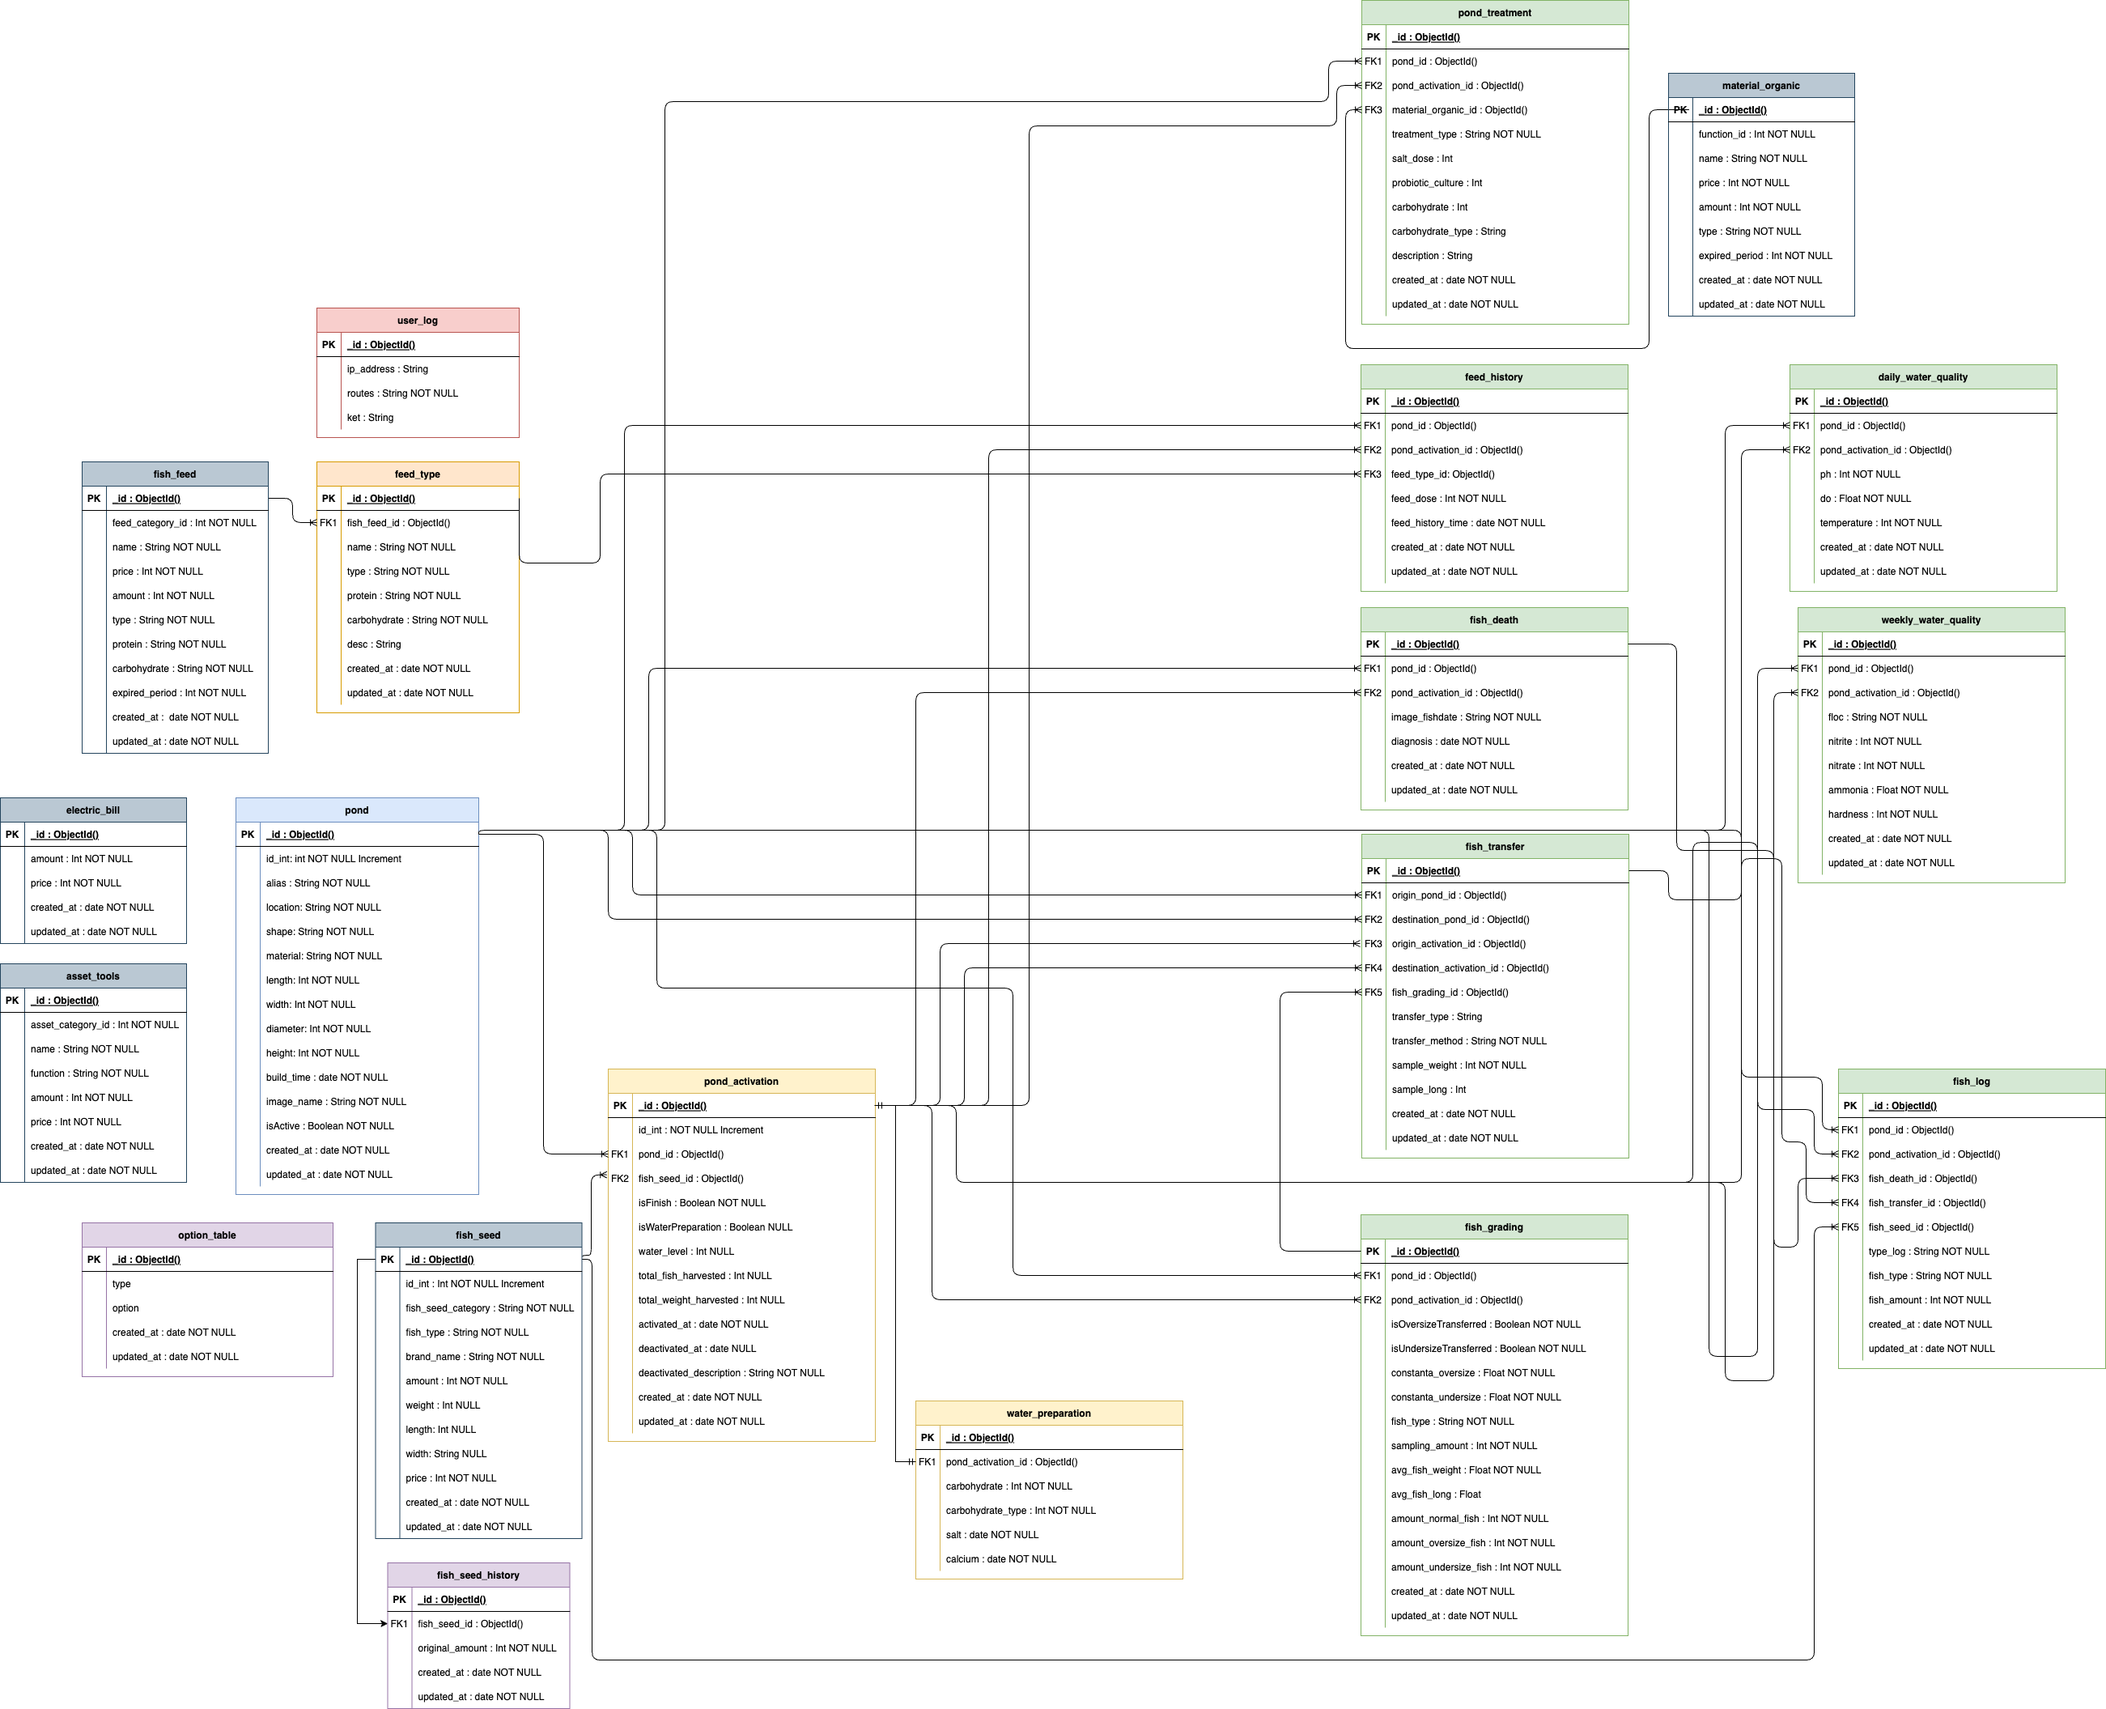
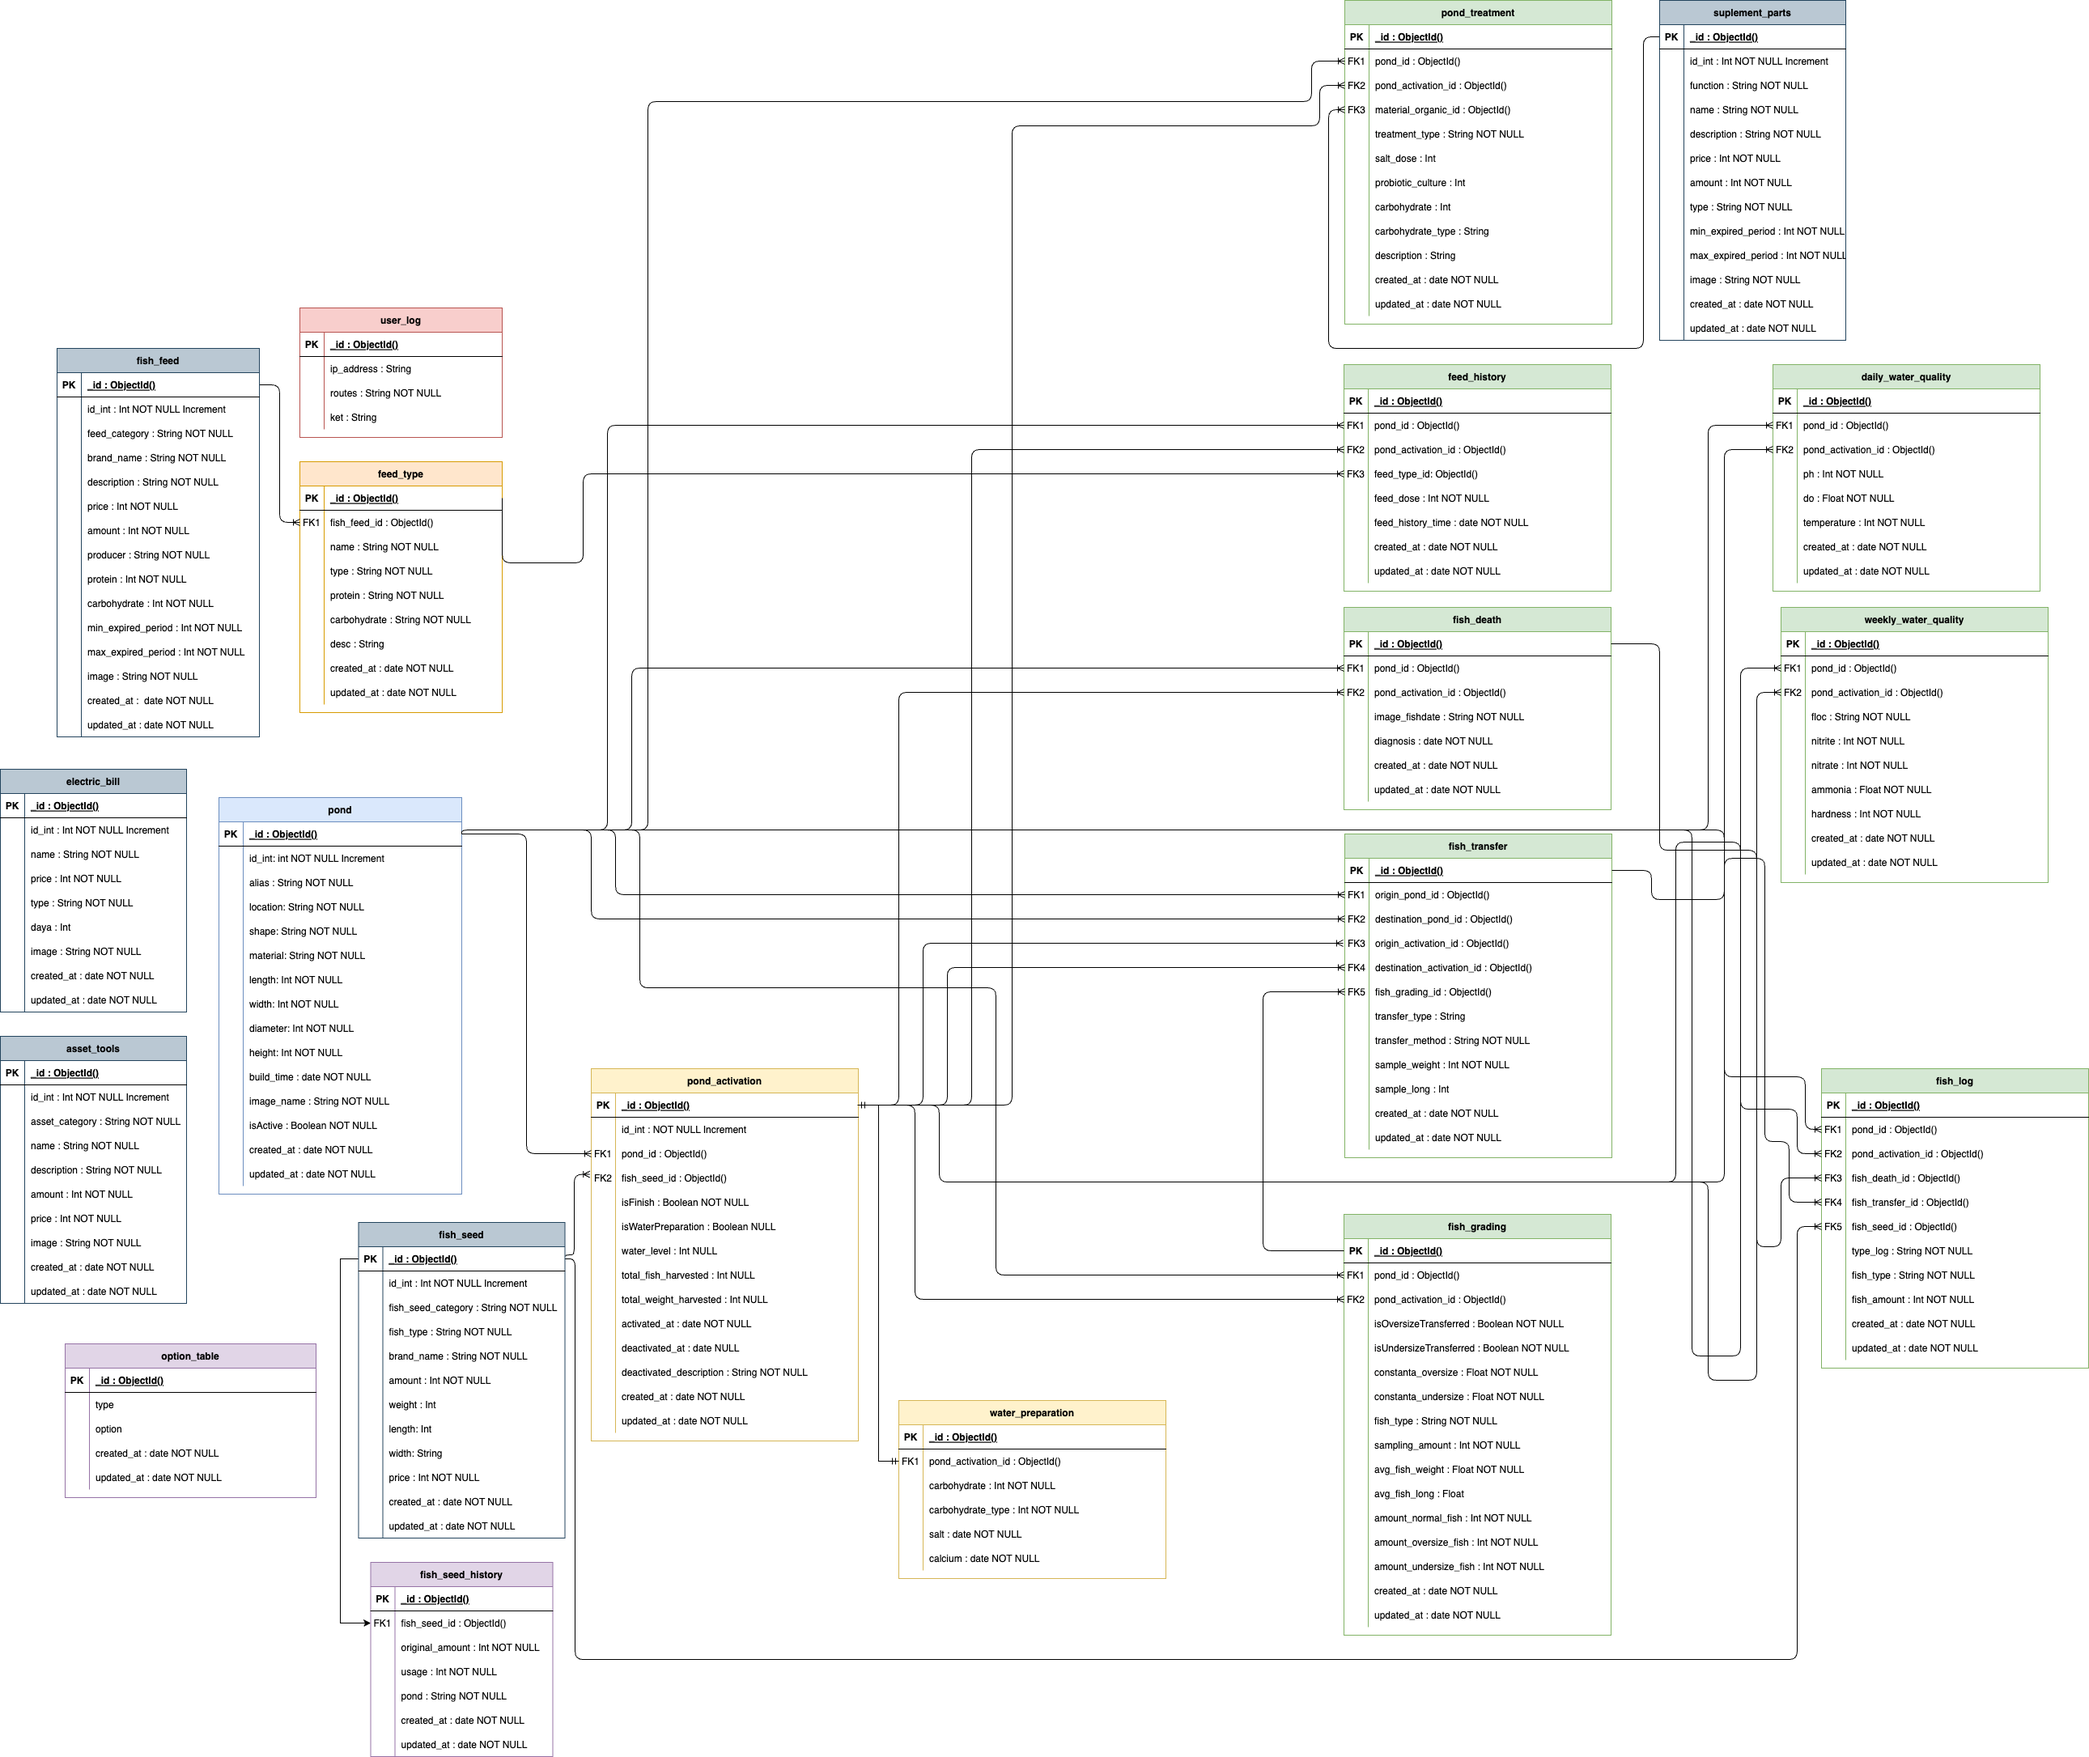
add models, fix doc, fix controller with query params

diff --git a/fishapiv2/database/models.py b/fishapiv2/database/models.py
@@ -221,5 +221,65 @@ class SeedInventory(db.Document):
     length = db.IntField()
     width = db.StringField()
     price = db.IntField(required=True)
+    image = db.StringField(required=True)
+    created_at = db.DateTimeField(default=datetime.datetime.now)
+    updated_at = db.DateTimeField(default=datetime.datetime.now)
+
+class SeedHistory(db.Document):
+    fish_seed_id = db.ReferenceField(SeedInventory, required=True)
+    original_amount = db.IntField(required=True)
+    usage = db.IntField(required=True)
+    pond = db.StringField(required=True)
+    created_at = db.DateTimeField(default=datetime.datetime.now)
+    updated_at = db.DateTimeField(default=datetime.datetime.now)
+
+class FeedInventory(db.Document):
+    id_int = db.SequenceField(required=True)
+    feed_category = db.StringField(required=True)
+    brand_name = db.StringField(required=True)
+    description = db.StringField(required=True)
+    price = db.IntField(required=True)
+    amount = db.IntField(required=True)
+    producer = db.StringField(required=True)
+    protein = db.IntField(required=True)
+    carbohydrate = db.IntField(required=True)
+    min_expired_period = db.IntField(required=True)
+    max_expired_period = db.IntField(required=True)
+    image = db.StringField(required=True)
+    created_at = db.DateTimeField(default=datetime.datetime.now)
+    updated_at = db.DateTimeField(default=datetime.datetime.now)
+
+class SuplemenInventory(db.Document):
+    id_int = db.SequenceField(required=True)
+    function = db.StringField(required=True)
+    name = db.StringField(required=True)
+    description = db.StringField(required=True)
+    price = db.IntField(required=True)
+    amount = db.IntField(required=True)
+    type = db.StringField(required=True)
+    min_expired_period = db.IntField(required=True)
+    max_expired_period = db.IntField(required=True)
+    image = db.StringField(required=True)
+    created_at = db.DateTimeField(default=datetime.datetime.now)
+    updated_at = db.DateTimeField(default=datetime.datetime.now)
+
+class ElectricInventory(db.Document):
+    id_int = db.SequenceField(required=True)
+    name = db.StringField(required=True)
+    daya = db.IntField()
+    type = db.StringField(required=True)
+    price = db.IntField(required=True)
+    image = db.StringField(required=True)
+    created_at = db.DateTimeField(default=datetime.datetime.now)
+    updated_at = db.DateTimeField(default=datetime.datetime.now)
+
+class AssetInventory(db.Document):
+    id_int = db.SequenceField(required=True)
+    asset_category = db.StringField(required=True)
+    name = db.StringField(required=True)
+    description = db.StringField(required=True)
+    amount = db.IntField(required=True)
+    price = db.IntField(required=True)
+    image = db.StringField(required=True)
     created_at = db.DateTimeField(default=datetime.datetime.now)
     updated_at = db.DateTimeField(default=datetime.datetime.now)

diff --git a/fishapiv2/resources/controller/history.py b/fishapiv2/resources/controller/history.py
@@ -1,0 +1,55 @@
+from flask import Flask, Response, request, jsonify, current_app, url_for, send_from_directory, make_response
+from fishapiv2.database.models import *
+from flask_restful import Resource
+from fishapiv2.resources.helper import *
+from datetime import datetime
+import json
+from flask_jwt_extended import jwt_required
+from flask_jwt_extended import get_jwt_identity
+from bson.objectid import ObjectId
+
+class SeedHistoryApi(Resource):
+    def get(self):
+        try:
+            start_date = datetime.strptime(request.args.get('start_date'), '%Y-%m-%d') if request.args.get('start_date') else ""
+            end_date = datetime.strptime(request.args.get('end_date'), '%Y-%m-%d') if request.args.get('end_date') else ""
+
+            pipeline = [
+                {
+                    '$match': {
+                        'created_at': {
+                            '$gte': start_date,
+                            '$lte': end_date,
+                        }
+                    }
+                },
+                {"$sort": {"fish_seed_id": 1}}
+            ]
+
+            testing = SeedHistory.objects.aggregate(pipeline)
+            temp = list(testing)
+            response = json.dumps(temp, default=str)
+            return Response(response, mimetype="application/json", status=200)
+        except Exception as e:
+            response = {"message": e}
+            response = json.dumps(response, default=str)
+            return Response(response, mimetype="application/json", status=400)
+
+    def post(self):
+        try:
+            body = {
+                "fish_seed_id": request.form.get('fish_seed_id', None),
+                "original_amount": request.form.get('original_amount', None),
+                "usage": request.form.get('usage', None),
+                "pond": request.form.get('pond', None),
+            }
+
+            seed_history = SeedHistory(**body).save()
+            id = seed_history.id
+            res = {"message": "success add seed history","id": id, "data": body}
+            response = json.dumps(res, default=str)
+            return Response(response, mimetype="application/json", status=200)
+        except Exception as e:
+            response = {"message": str(e)}
+            response = json.dumps(response, default=str)
+            return Response(response, mimetype="application/json", status=400)

diff --git a/fishapiv2/resources/controller/inventories.py b/fishapiv2/resources/controller/inventories.py
@@ -11,7 +11,20 @@ from bson.objectid import ObjectId
 class SeedInventoriesApi(Resource):
     def get(self):
         try:
-            pipeline = {"$sort": {"brand_name": 1}},
+            type = request.args.get('type') if request.args.get('type') else ""
+
+            pipeline = [
+                {"$sort": {"id_int": 1}},
+                {
+                    '$match': {
+                        'fish_seed_category': {
+                            '$regex': type,
+                            '$options': 'i'
+                        }
+                    }
+                }
+            ]
+           
             testing = SeedInventory.objects.aggregate(pipeline)
             temp = list(testing)
             response = json.dumps(temp, default=str)
@@ -38,8 +51,8 @@ class SeedInventoriesApi(Resource):
             }
             inventory = SeedInventory(**body).save()
             id = inventory.id
-            response = {"message": "success add seed to inventory", "id": id}
-            response = json.dumps(response, default=str)
+            res = {"message": "success add seed to inventory", "id": id, "data": body}
+            response = json.dumps(res, default=str)
             return Response(response, mimetype="application/json", status=200)
         except Exception as e:
             response = {"message": str(e)}
@@ -52,6 +65,8 @@ class SeedInventoryApi(Resource):
             pipeline = {"$match": {"id_int": int(id)}},
             testing = SeedInventory.objects.aggregate(pipeline)
             temp = list(testing)
+            if len(temp) == 0:
+                return Response('no data found', mimetype="application/json", status=200)
             response = json.dumps(temp[0], default=str)
             return Response(response, mimetype="application/json", status=200)
         except Exception as e:
@@ -76,7 +91,7 @@ class SeedInventoryApi(Resource):
                 "price": request.form.get('price', None),
             }
             inventory = SeedInventory.objects.get(id_int = int(id)).update(**body)
-            response = {"message": "success update seed inventory"}
+            response = {"message": "success update seed inventory", "data": body}
             response = json.dumps(response, default=str)
             return Response(response, mimetype="application/json", status=200)
         except Exception as e:

diff --git a/fishapiv2/resources/routes.py b/fishapiv2/resources/routes.py
@@ -14,6 +14,7 @@ from .controller.authentication import *
 from .controller.breeder import *
 from .controller.farm import *
 from .controller.inventories import *
+from .controller.history import *
 
 
 def initialize_routes(api):
@@ -97,3 +98,6 @@ def initialize_routes(api):
     # seed inventory
     api.add_resource(SeedInventoriesApi, '/api/inventory/seed')
     api.add_resource(SeedInventoryApi, '/api/inventory/seed/<id>')
+
+    # history
+    api.add_resource(SeedHistoryApi, '/api/history/inventory/seed')
